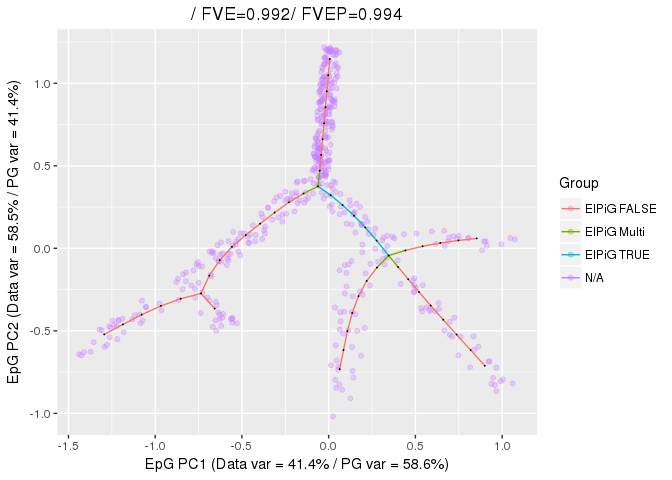
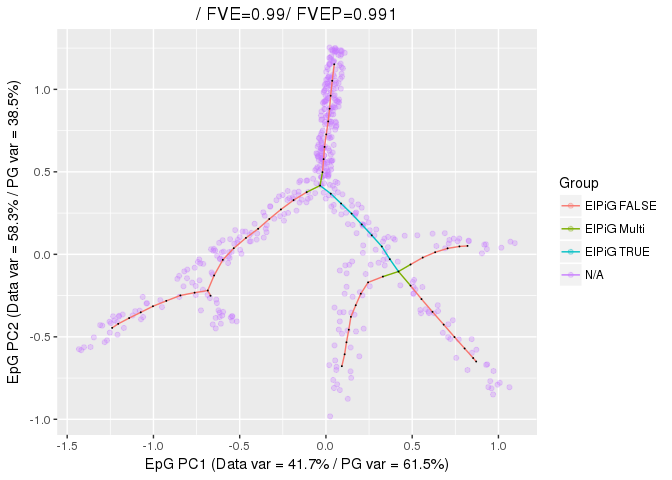
updated struct

diff --git a/guides/struct.md b/guides/struct.md
@@ -2,7 +2,7 @@
 -   [Obtaining notable structures in
     trees](#obtaining-notable-structures-in-trees)
 -   [Obtaining notable structures in
-    circle](#obtaining-notable-structures-in-circle)
+    circles](#obtaining-notable-structures-in-circles)
 -   [Looking at the nodes composing the
     structures](#looking-at-the-nodes-composing-the-structures)
 -   [Looking at the points associted with the
@@ -36,7 +36,7 @@ on the example data included in the package.
 
     library(magrittr)
 
-    TreeEPG <- computeElasticPrincipalTree(X = tree_data, NumNodes = 50,
+    TreeEPG <- computeElasticPrincipalTree(X = tree_data, NumNodes = 60, Lambda = .03, Mu = .01,
                                            drawAccuracyComplexity = FALSE, drawEnergy = FALSE)
 
     ## [1] "Creating a chain in the 1st PC with 2 nodes"
@@ -45,70 +45,12 @@ on the example data included in the package.
     ## [1] "Using standard PCA"
     ## [1] "3 dimensions are being used"
     ## [1] "100% of the original variance has been retained"
-    ## [1] "Computing EPG with 50 nodes on 492 points and 3 dimensions"
+    ## [1] "Computing EPG with 60 nodes on 492 points and 3 dimensions"
     ## [1] "Using a single core"
-    ## Nodes = 2 3
-
-    ## Warning in PrimitiveElasticGraphEmbedment(X, input$NodePositions, input
-    ## $ElasticMatrix, : Maximum number of iterations (10) has been reached. diff
-    ## = 0.0556045436349542
-
-    ## 4
-
-    ## Warning in PrimitiveElasticGraphEmbedment(X, input$NodePositions, input
-    ## $ElasticMatrix, : Maximum number of iterations (10) has been reached. diff
-    ## = 0.0301832931960279
-
-    ## 5 6 7
-
-    ## Warning in PrimitiveElasticGraphEmbedment(X, input$NodePositions, input
-    ## $ElasticMatrix, : Maximum number of iterations (10) has been reached. diff
-    ## = 0.0108997004478186
-
-    ## 8
-
-    ## Warning in PrimitiveElasticGraphEmbedment(X, input$NodePositions, input
-    ## $ElasticMatrix, : Maximum number of iterations (10) has been reached. diff
-    ## = 0.0338837538875411
-
-    ## 9
-
-    ## Warning in PrimitiveElasticGraphEmbedment(X, input$NodePositions, input
-    ## $ElasticMatrix, : Maximum number of iterations (10) has been reached. diff
-    ## = 0.0186764499907295
-
-    ## Warning in PrimitiveElasticGraphEmbedment(X, input$NodePositions, input
-    ## $ElasticMatrix, : Maximum number of iterations (10) has been reached. diff
-    ## = 0.054863847452363
-
-    ## 10
-
-    ## Warning in PrimitiveElasticGraphEmbedment(X, input$NodePositions, input
-    ## $ElasticMatrix, : Maximum number of iterations (10) has been reached. diff
-    ## = 0.0244949370624996
-
-    ## Warning in PrimitiveElasticGraphEmbedment(X, input$NodePositions, input
-    ## $ElasticMatrix, : Maximum number of iterations (10) has been reached. diff
-    ## = 0.0117614602046908
-
-    ## Warning in PrimitiveElasticGraphEmbedment(X, input$NodePositions, input
-    ## $ElasticMatrix, : Maximum number of iterations (10) has been reached. diff
-    ## = 0.0358113369806447
-
-    ## Warning in PrimitiveElasticGraphEmbedment(X, input$NodePositions, input
-    ## $ElasticMatrix, : Maximum number of iterations (10) has been reached. diff
-    ## = 0.0139648044782385
-
-    ## 11 12 13
-
-    ## Warning in PrimitiveElasticGraphEmbedment(X, input$NodePositions, input
-    ## $ElasticMatrix, : Maximum number of iterations (10) has been reached. diff
-    ## = 0.0183632027691593
-
-    ## 14 15 16 17 18 19 20 21 22 23 24 25 26 27 28 29 30 31 32 33 34 35 36 37 38 39 40 41 42 43 44 45 46 47 48 49 
+    ## Nodes = 2 3 4 5 6 7 8 9 10 11 12 13 14 15 16 17 18 19 20 21 22 23 24 25 26 27 28 29 30 31 32 33 34 35 36 37 38 39 40 41 42 43 44 45 46 47 48 49 50 51 52 53 54 55 56 57 58 59 
     ## BARCODE  ENERGY  NNODES  NEDGES  NRIBS   NSTARS  NRAYS   NRAYS2  MSE MSEP    FVE FVEP    UE  UR  URN URN2    URSD
-    ## 1|2||50  0.01568 50  49  41  2   0   0   0.004137    0.003432    0.9923  0.9936  0.01114 0.0004032   0.02016 1.008   0
-    ## 14.567 sec elapsed
+    ## 1|2||60  0.01848 60  59  51  2   0   0   0.00548 0.005053    0.9898  0.9906  0.01249 0.0005134   0.03081 1.848   0
+    ## 29.213 sec elapsed
     ## [[1]]
 
 ![](struct_files/figure-markdown_strict/unnamed-chunk-1-1.png)
@@ -127,8 +69,8 @@ on the example data included in the package.
     ## [1] "Using a single core"
     ## Nodes = 3 4 5 6 7 8 9 10 11 12 13 14 15 16 17 18 19 20 21 22 23 24 25 26 27 28 29 30 31 32 33 34 35 36 37 38 39 
     ## BARCODE  ENERGY  NNODES  NEDGES  NRIBS   NSTARS  NRAYS   NRAYS2  MSE MSEP    FVE FVEP    UE  UR  URN URN2    URSD
-    ## 0||40    0.05136 40  40  40  0   0   0   0.02904 0.02755 0.9728  0.9742  0.0206  0.001721    0.06885 2.754   0
-    ## 1.411 sec elapsed
+    ## 0||40    0.04107 40  40  40  0   0   0   0.02892 0.02738 0.9729  0.9744  0.0105  0.00165 0.066   2.64    0
+    ## 1.541 sec elapsed
     ## [[1]]
 
 ![](struct_files/figure-markdown_strict/unnamed-chunk-1-2.png)
@@ -205,8 +147,8 @@ better to use `GetSubGraph` by setting `KeepEnds` to `FALSE`
 
 ![](struct_files/figure-markdown_strict/unnamed-chunk-7-1.png)
 
-Obtaining notable structures in circle
-======================================
+Obtaining notable structures in circles
+=======================================
 
 Similarly to tree, `GetSubGraph` can be used to obtain circles by
 setting `structure` to `circle`. When looking for circles it is possible
@@ -240,8 +182,8 @@ Let us consider the first subs-tree computed:
 
     Tree_SubTrees[[1]]
 
-    ##  [1]  1  5  6 10 32 38 18 17 28 30 26 25 22 36 46 12 13 16  9 11 24  2  3
-    ## [24] 19
+    ##  [1]  1  7 21 57 20 52 34 44 30  9 55  5 47 29 16 28 37 60 12  6 40 19 26
+    ## [24]  8 13  2  3  4
 
 To look how the nodes maps to the graph, we can label the nodes in the
 `PlotPG` function. This can be done using the `NodeLabels` parameter.
@@ -266,8 +208,9 @@ leaves
 
     Tree_e2e[[1]]
 
-    ## + 23/50 vertices, named, from 39f157c:
-    ##  [1] 2  11 16 46 25 28 38 6  1  5  32 17 26 36 13 9  24 19 43 48 40 8  4
+    ## + 26/60 vertices, named, from 12a263f:
+    ##  [1] 2  8  40 60 16 5  30 52 21 1  57 34 9  47 28 12 19 3  15 18 27 31 35
+    ## [24] 36 45 51
 
     PlotPG(X = tree_data, TargetPG = TreeEPG[[1]], PGCol = V(Tree_Graph) %in% Tree_e2e[[1]], PointSize = NA, NodeLabels = 1:nrow(TreeEPG[[1]]$NodePositions), LabMult = 3)
 
